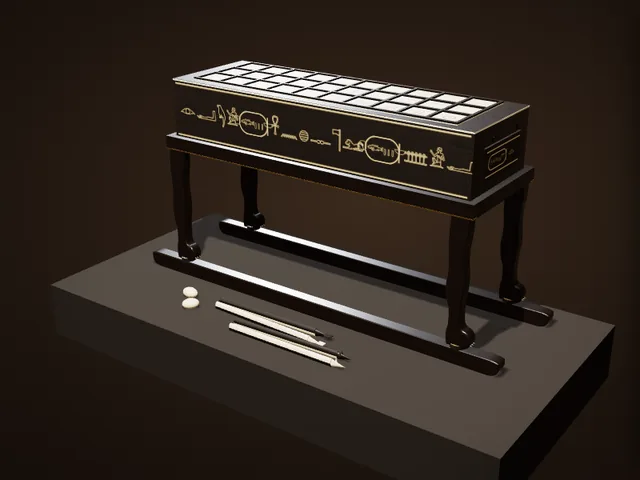
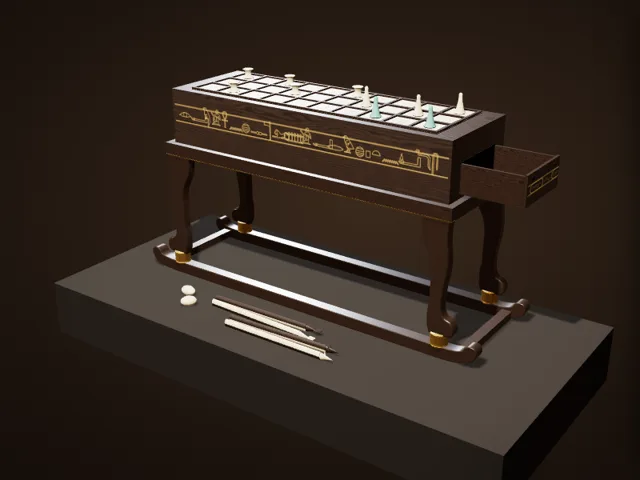
博物館：ツタンカーメンのセネト盤を展示写真に合わせて修正（木の色・銘文の帯・脚・金の円筒・そり・盤上の駒・開けた引き出し）
Claude-Session: https://claude.ai/code/session_01EiWRAZTxRF5M5nk5vdR2jJ

diff --git a/atlas/museum/ex/senet.js b/atlas/museum/ex/senet.js
@@ -7,7 +7,10 @@
    stand (with sledge) 55.0 × 17.5 × 20.2; 28 high overall (Carter). The pieces kept with it: two ivory knuckle-bones and two
    pairs of casting sticks, black ebony above and white ivory below, one pair ending in fingers, one in fox heads (about 17.5 long).
    Estimates: the wording and layout of the texts (Tutankhamun's throne name in cartouches, the rest in the manner of royal
-   texts), the signs on squares 15 and 26–30, the heights within the stand, where the gold is. */
+   texts), the signs on squares 15 and 26–30.
+   Checked 2026-11-21 against photographs of the set in the Egyptian Museum (Global Egyptian Museum 15033; egypt-museum.com): brown
+   ebony, one band of text in the upper middle of the sides, legs with a heavy thigh, ribbed gold drums under the paws, runners with
+   upturned ends and cross-bars; shown as displayed, the drawer open and reels and cones on the board. */
 (function () {
   'use strict';
   (window.AtlasEx = window.AtlasEx || {}).senet = {
@@ -17,7 +20,7 @@
       const SQ = 3.5, ST = .36, ROWS = 3, COLS = 10;
       const fieldW = COLS * SQ + (COLS + 1) * ST, fieldD = ROWS * SQ + (ROWS + 1) * ST;
       /* ---------- materials ---------- */
-      const ebonyT = K.tex(512, 512, (g, w, h) => K.grain(g, w, h, { a: '#1c130d', b: '#0b0705', seed: 3, sx: 1, sy: 30, warp: 1.6, pores: .012 }), { rep: [2, 1] });
+      const ebonyT = K.tex(512, 512, (g, w, h) => K.grain(g, w, h, { a: '#3a2a20', b: '#1d130e', seed: 3, sx: 1, sy: 30, warp: 1.6, pores: .012 }), { rep: [2, 1] });
       const ebonyR = K.tex(256, 256, (g, w, h) => K.grain(g, w, h, { a: '#8a8a8a', b: '#5c5c5c', seed: 5, sy: 30 }), { data: true, rep: [2, 1] });
       const ebony = K.mat({ map: ebonyT, roughnessMap: ebonyR, color: '#ffffff', roughness: .55, metalness: 0, clearcoat: .35, clearcoatRoughness: .45 });
       const ivoryT = K.tex(512, 512, (g, w, h) => { K.grain(g, w, h, { a: '#e8dab9', b: '#d3bf96', seed: 9, sx: 1, sy: 3, warp: 1.2 });
@@ -30,15 +33,17 @@
       // Nebkheperure in cartouches, the rest in the manner of a royal text (the real wording is not reproduced here)
       const HF = '"Noto Sans Egyptian Hieroglyphs"';
       const textTex = (len, ht, glyphs) => { const PX = 1536, s = PX / len; return K.tex(PX, Math.round(ht * s), (g, w, h) => {
-        g.drawImage(ebonyT.image, 0, 0, w, h); const yel = 'rgba(226,206,150,.92)';
-        g.strokeStyle = yel; g.lineWidth = s * .12; [s * .55, h - s * .55].forEach(y => { g.beginPath(); g.moveTo(s * .4, y); g.lineTo(w - s * .4, y); g.stroke(); });
-        g.fillStyle = yel; g.textBaseline = 'middle'; const FS = Math.min(h * .34, s * 2.3); g.font = `${Math.round(FS)}px ${HF}`;
-        const cart = (x) => { const cw = s * 4.6, ch = FS * 1.25, y0 = h / 2 - ch / 2; g.lineWidth = s * .09; g.beginPath(); g.roundRect(x, y0, cw, ch, ch / 2); g.stroke(); g.beginPath(); g.moveTo(x + cw, y0 + ch * .1); g.lineTo(x + cw, y0 + ch * .9); g.stroke();
-          g.textAlign = 'center'; g.font = `${Math.round(FS * .7)}px ${HF}`; g.fillText('\u{131F3}\u{1319F}\u{133E5}\u{1339F}', x + cw / 2, h * .5); g.font = `${Math.round(FS)}px ${HF}`; g.textAlign = 'left'; return cw; };
+        g.drawImage(ebonyT.image, 0, 0, w, h); const yel = 'rgba(212,178,104,.9)';
+        // one register of text between two incised lines, in the upper middle of the side (photographs in the Egyptian Museum)
+        const cy = h * (ht > 5 ? .42 : .5), bh = Math.min(h * .3, s * 2.4);
+        g.strokeStyle = yel; g.lineWidth = s * .08; [cy - bh / 2, cy + bh / 2].forEach(y => { g.beginPath(); g.moveTo(s * .35, y); g.lineTo(w - s * .35, y); g.stroke(); });
+        g.fillStyle = yel; g.textBaseline = 'middle'; const FS = bh * .9; g.font = `${Math.round(FS)}px ${HF}`;
+        const cart = (x) => { const cw = s * 3.6, ch = bh * .92, y0 = cy - ch / 2; g.lineWidth = s * .09; g.beginPath(); g.roundRect(x, y0, cw, ch, ch / 2); g.stroke(); g.beginPath(); g.moveTo(x + cw, y0 + ch * .1); g.lineTo(x + cw, y0 + ch * .9); g.stroke();
+          g.textAlign = 'center'; g.font = `${Math.round(FS * .7)}px ${HF}`; g.fillText('\u{131F3}\u{1319F}\u{133E5}\u{1339F}', x + cw / 2, cy); g.font = `${Math.round(FS)}px ${HF}`; g.textAlign = 'left'; return cw; };
         let x = s * 1.0; g.textAlign = 'left'; let i = 0;
-        while (x < w - s * 2) { const c = glyphs[i % glyphs.length]; if (c === 'C') { x += cart(x) + s * .6; } else { g.fillText(c, x, h * .5); x += g.measureText(c).width + s * .12; } i++; }
+        while (x < w - s * 2) { const c = glyphs[i % glyphs.length]; if (c === 'C') { x += cart(x) + s * .4; } else { g.fillText(c, x, cy); x += Math.min(g.measureText(c).width, FS * 1.05) + s * .05; } i++; }
       }); };
-      const LINE = ['\u{13079}', '\u{1309D}', '\u{13190}', '\u{13000}', 'C', '\u{132F9}', '\u{13216}', '\u{1340D}', '\u{13283}', '\u{132B9}', '\u{130ED}', 'C', '\u{13290}', '\u{13000}', '\u{1309D}', '\u{13079}'];
+      const LINE = ['\u{13079}', '\u{1309D}', '\u{13190}', '\u{13000}', '\u{132F9}', '\u{13216}', '\u{1340D}', '\u{13283}', '\u{132B9}', '\u{130ED}', '\u{13290}', '\u{13000}', '\u{1309D}', '\u{1308B}', '\u{13171}', '\u{1340D}', '\u{132AA}', '\u{133CF}', '\u{13216}', '\u{1309E}', '\u{13193}', '\u{132F4}', '\u{1308B}', '\u{13000}', '\u{132B9}', 'C'];
       const sideT = textTex(L, BH, LINE), endT = textTex(W, BH, LINE.slice(4));
       const sideM = K.mat({ map: sideT, color: '#ffffff', roughness: .5, clearcoat: .35, clearcoatRoughness: .45 }), endM = K.mat({ map: endT, color: '#ffffff', roughness: .5, clearcoat: .35, clearcoatRoughness: .45 });
       const box = new TT.Mesh(new TT.BoxGeometry(L, BH, W), [ebony, endM, ebony, ebony, sideM, sideM]); box.position.set(0, Y0 + BH / 2, 0); G.add(box);
@@ -61,7 +66,7 @@
         }
       });
       const topMat = K.mat({ map: topT, color: '#ffffff', roughness: .42, clearcoat: .2, clearcoatRoughness: .5 });
-      const slab = new TT.Mesh(new TT.BoxGeometry(fieldW, .12, fieldD), [ivory, ivory, topMat, ivory, ivory, ivory]); slab.position.set(0, Y0 + BH + .06, 0); G.add(slab);
+      const slab = new TT.Mesh(new TT.BoxGeometry(fieldW, .12, fieldD), [ebony, ebony, topMat, ebony, ebony, ebony]); slab.position.set(0, Y0 + BH + .06, 0); G.add(slab);
       // raised strips: rows and columns (and the outer frame), ebony
       const SH = .22, strips = [];
       for (let r = 0; r <= ROWS; r++) strips.push([fieldW, ST, 0, -fieldD / 2 + ST / 2 + r * (SQ + ST)]);
@@ -69,12 +74,22 @@
       strips.forEach(([w, d, x, z]) => { const m = new TT.Mesh(new TT.BoxGeometry(w, SH, d), ebony); m.position.set(x, Y0 + BH + .12 + SH / 2, z); G.add(m); });
       // a thin ivory edge where the field meets the ebony
       const band = (w, d, y, x = 0, z = 0) => { const m = new TT.Mesh(new TT.BoxGeometry(w, .2, d), ivory); m.position.set(x, y, z); G.add(m); };
-      band(L + .04, .08, Y0 + BH - .12, 0, W / 2); band(L + .04, .08, Y0 + BH - .12, 0, -W / 2); band(.08, W + .04, Y0 + BH - .12, -L / 2, 0); band(.08, W + .04, Y0 + BH - .12, L / 2, 0);
-      // the drawer at the +x end (9.5 wide, 4 high): its front framed with a line of text; the bolts and staples are gone
+      // the drawer at the +x end (22.2 long, 9.5 wide, 4 high), shown pulled out as in the museum's photographs
+      const DL = 22.2, DWd = 9.5, DHt = 4.0, DOUT = 8.5, dg = new TT.Group(); dg.position.set(L / 2 + DOUT - DL / 2, Y0 + .9 + DHt / 2, 0); G.add(dg);
       const dT = textTex(9.5, 4.0, ['C', '\u{13079}', '\u{1309D}']);
-      const df = new TT.Mesh(new TT.BoxGeometry(.3, 4.0, 9.5), [K.mat({ map: dT, color: '#ffffff', roughness: .5, clearcoat: .35 }), ebony, ebony, ebony, ebony, ebony]); df.position.set(L / 2 + .15, Y0 + BH / 2 - .4, 0); df.rotation.y = 0; G.add(df);
-      // the scars where the bolt's staples were wrenched away
-      [-3.2, 3.2].forEach(z => { const sc = new TT.Mesh(new TT.BoxGeometry(.05, .5, .9), K.mat({ color: '#2a1a10', roughness: .9 })); sc.position.set(L / 2 + .31, Y0 + BH / 2 + 2.3, z); G.add(sc); });
+      const dpart = (w, h, d, x, y, z, m) => { const o = new TT.Mesh(new TT.BoxGeometry(w, h, d), m || ebony); o.position.set(x, y, z); dg.add(o); };
+      dpart(.35, DHt, DWd, DL / 2 - .175, 0, 0, [K.mat({ map: dT, color: '#ffffff', roughness: .5, clearcoat: .35 }), ebony, ebony, ebony, ebony, ebony]);   // front
+      dpart(DL - .35, DHt - .2, .3, -.175, -.1, DWd / 2 - .15); dpart(DL - .35, DHt - .2, .3, -.175, -.1, -DWd / 2 + .15);   // sides
+      dpart(.3, DHt - .2, DWd - .6, -DL / 2 + .15, -.1, 0); dpart(DL - .35, .25, DWd - .6, -.175, -DHt / 2 + .125, 0, K.mat({ color: '#4a3324', roughness: .85 }));   // back, rough floor
+      [-3.2, 3.2].forEach(z => { const sc = new TT.Mesh(new TT.BoxGeometry(.05, .5, .9), K.mat({ color: '#2a1a10', roughness: .9 })); sc.position.set(DL / 2 + .01, 1.2, z); dg.add(sc); });   // where the bolt's staples were wrenched away
+      const hole = new TT.Mesh(new TT.BoxGeometry(.05, DHt, DWd), K.mat({ color: '#080504', roughness: 1 })); hole.position.set(L / 2 + .03, Y0 + .9 + DHt / 2, 0); G.add(hole);   // the empty opening in the box's end
+      /* ---------- pieces on the board, as the set is shown in the museum: reels and cones (ivory; two cones blue faience) ---------- */
+      const faience = K.mat({ color: '#6fa9a0', roughness: .45, clearcoat: .3 });
+      const reelG = new TT.LatheGeometry([[0, 0], [.95, 0], [1.0, .12], [.62, .35], [.5, .9], [.62, 1.35], [.98, 1.55], [.9, 1.66], [0, 1.66]].map(([x, y]) => new TT.Vector2(x, y)), 24);
+      const coneG = new TT.LatheGeometry([[0, 0], [.95, 0], [1.0, .15], [.7, .5], [.42, 1.6], [.3, 2.4], [.34, 2.7], [.2, 2.9], [0, 2.95]].map(([x, y]) => new TT.Vector2(x, y)), 24);
+      const sqc = (c, r) => [-fieldW / 2 + ST + c * (SQ + ST) + SQ / 2, Y0 + BH + .12, -fieldD / 2 + ST + r * (SQ + ST) + SQ / 2];
+      [[0, 0], [2, 0], [3, 1], [5, 0], [1, 2]].forEach(([c, r]) => { const m = new TT.Mesh(reelG, ivory); m.position.set(...sqc(c, r)); m.scale.setScalar(.82); G.add(m); });
+      [[6, 1], [7, 2], [8, 1], [9, 2], [9, 0]].forEach(([c, r], i) => { const m = new TT.Mesh(coneG, i === 1 || i === 3 ? faience : ivory); m.position.set(...sqc(c, r)); m.scale.set(.75, .9, .75); G.add(m); });
       /* ---------- the stand: rails, four animal legs on drums, two sledge runners ---------- */
       const RL = 46.4, RW = 16.4, RH = 1.8;   // the top frame (rebated for the box)
       [[RL, RH, .9, 0, RW / 2 - .45], [RL, RH, .9, 0, -RW / 2 + .45], [.9, RH, RW, RL / 2 - .45, 0], [.9, RH, RW, -RL / 2 + .45, 0]].forEach(([w, h, d, x, z]) => { const m = new TT.Mesh(new TT.BoxGeometry(w, h, d), ebony); m.position.set(x, 20.2 - h / 2, z); G.add(m); });
@@ -84,28 +99,29 @@
       gilt(RL + .02, .92, 0, RW / 2 - .45); gilt(RL + .02, .92, 0, -RW / 2 + .45);
       // a feline leg seen from the side (paw forward to +x), extruded and rounded
       const sh = new TT.Shape();
-      sh.moveTo(-.95, 10.3); sh.quadraticCurveTo(-1.25, 8.6, -1.0, 7.2); sh.quadraticCurveTo(-.82, 6.1, -1.12, 4.9); sh.quadraticCurveTo(-1.18, 3.9, -.62, 3.0);
-      sh.quadraticCurveTo(-.48, 2.0, -.62, 1.35); sh.quadraticCurveTo(-.92, .8, -.7, .05); sh.lineTo(1.35, .05);
-      sh.quadraticCurveTo(2.05, .1, 2.0, .62); sh.quadraticCurveTo(1.9, 1.05, 1.25, 1.12); sh.quadraticCurveTo(.62, 1.25, .52, 1.9);
-      sh.quadraticCurveTo(.42, 3.0, .7, 4.2); sh.quadraticCurveTo(.92, 5.3, .66, 6.4); sh.quadraticCurveTo(.5, 7.4, .82, 8.5); sh.quadraticCurveTo(1.0, 9.4, .95, 10.3); sh.lineTo(-.95, 10.3);
+      // (after the photographs: a heavy thigh, a slender shank curving back, the knee forward, a broad paw)
+      sh.moveTo(-2.3, 10.3); sh.quadraticCurveTo(-2.5, 8.9, -1.5, 7.7); sh.quadraticCurveTo(-.6, 6.6, -.7, 5.2); sh.quadraticCurveTo(-.75, 3.9, -.75, 2.7); sh.quadraticCurveTo(-1.15, 1.6, -.9, .45); sh.lineTo(-.72, .02);
+      sh.lineTo(1.85, .02); sh.quadraticCurveTo(2.5, .05, 2.4, .62); sh.quadraticCurveTo(2.28, 1.12, 1.55, 1.2); sh.quadraticCurveTo(.62, 1.38, .55, 2.4);
+      sh.quadraticCurveTo(.5, 3.6, .95, 5.0); sh.quadraticCurveTo(1.35, 6.6, 1.0, 8.0); sh.quadraticCurveTo(.8, 9.3, 1.15, 10.3); sh.lineTo(-2.3, 10.3);
       const legG = new TT.ExtrudeGeometry(sh, { depth: 1.15, bevelEnabled: true, bevelThickness: .24, bevelSize: .22, bevelSegments: 4, curveSegments: 10 });
       legG.translate(0, 0, -.575);
       const clawG = new TT.ConeGeometry(.12, .42, 10); clawG.rotateZ(-Math.PI / 2);
-      const drumG = new TT.CylinderGeometry(.95, 1.05, .6, 28);
-      const LX = RL / 2 - 1.6, LZ = RW / 2 - .9, LS = (20.2 - RH - 2.4) / 10.3;   // (the legs stretched to the stand's height)
+      const drumG = new TT.LatheGeometry([[0, -.9], [1.15, -.9], [1.2, -.75], [1.05, -.6], [1.18, -.45], [1.05, -.3], [1.18, -.15], [1.05, 0], [1.18, .15], [1.05, .3], [1.18, .45], [1.05, .6], [1.2, .75], [1.15, .9], [0, .9]].map(([x, y]) => new TT.Vector2(x, y)), 28);
+      const LX = RL / 2 - 1.6, LZ = RW / 2 - .9, LS = (20.2 - RH - 3.3) / 10.3;   // (the legs stretched to the stand's height)
       for (const sx of [1, -1]) for (const sz of [1, -1]) {
         const x = sx * LX, z = sz * LZ;
-        const leg = new TT.Mesh(legG, ebony); leg.position.set(x, 2.4, z); leg.scale.y = LS; G.add(leg);
-        for (let k = -1; k <= 1; k++) { const c = new TT.Mesh(clawG, ivory); c.position.set(x + 2.18, 2.4 + .3, z + k * .42); G.add(c); }
-        const dr = new TT.Mesh(drumG, ebony); dr.position.set(x + .4, 2.1, z); G.add(dr);
-        const cap = new TT.Mesh(new TT.CylinderGeometry(1.0, 1.0, .1, 28), gold); cap.position.set(x + .4, 2.42, z); G.add(cap);
+        const leg = new TT.Mesh(legG, ebony); leg.position.set(x, 3.3, z); leg.scale.y = LS; leg.scale.x = sx; leg.scale.z = .9; G.add(leg);   // the paws face outwards, to the ends
+        for (let k = -1; k <= 1; k++) { const c = new TT.Mesh(clawG, ivory); c.position.set(x + sx * 2.18, 3.3 + .3, z + k * .36); c.scale.x = sx; G.add(c); }
+        const dr = new TT.Mesh(drumG, gold); dr.position.set(x + sx * .4, 1.45 + .9, z); G.add(dr);   // a gold drum, ribbed, under each paw
       }
-      // runners: long bars with rounded, slightly upturned ends
-      const rs = new TT.Shape(); const RLn = 55, RH2 = 1.8;
-      rs.moveTo(-RLn / 2 + 1.2, 0); rs.lineTo(RLn / 2 - 1.2, 0); rs.quadraticCurveTo(RLn / 2 + .2, .1, RLn / 2, RH2 * .9); rs.quadraticCurveTo(RLn / 2 - .3, RH2, RLn / 2 - 1.4, RH2);
-      rs.lineTo(-RLn / 2 + 1.4, RH2); rs.quadraticCurveTo(-RLn / 2 + .3, RH2, -RLn / 2, RH2 * .9); rs.quadraticCurveTo(-RLn / 2 - .2, .1, -RLn / 2 + 1.2, 0);
-      const runG = new TT.ExtrudeGeometry(rs, { depth: 1.5, bevelEnabled: true, bevelThickness: .15, bevelSize: .15, bevelSegments: 3, curveSegments: 10 }); runG.translate(0, 0, -.75);
+      // runners: long bars whose ends sweep up in a curl (the photographs), joined by a cross-bar near each end
+      const RLn = 55, RH2 = 1.45, rs = new TT.Shape(), E = RLn / 2;
+      rs.moveTo(-E + 5, 0); rs.lineTo(E - 5, 0); rs.bezierCurveTo(E - 1.6, 0, E, .8, E, 2.0); rs.quadraticCurveTo(E, 2.7, E - .7, 2.7); rs.quadraticCurveTo(E - 1.4, 2.7, E - 1.6, 2.1);
+      rs.bezierCurveTo(E - 1.9, 1.6, E - 3, RH2, E - 5, RH2); rs.lineTo(-E + 5, RH2); rs.bezierCurveTo(-E + 3, RH2, -E + 1.9, 1.6, -E + 1.6, 2.1);
+      rs.quadraticCurveTo(-E + 1.4, 2.7, -E + .7, 2.7); rs.quadraticCurveTo(-E, 2.7, -E, 2.0); rs.bezierCurveTo(-E, .8, -E + 1.6, 0, -E + 5, 0);
+      const runG = new TT.ExtrudeGeometry(rs, { depth: 1.5, bevelEnabled: true, bevelThickness: .12, bevelSize: .12, bevelSegments: 3, curveSegments: 16 }); runG.translate(0, 0, -.75);
       [LZ, -LZ].forEach(z => { const m = new TT.Mesh(runG, ebony); m.position.set(0, 0, z); G.add(m); });
+      [LX + 3.4, -LX - 3.4].forEach(x => { const m = new TT.Mesh(new TT.BoxGeometry(1.4, 1.1, 2 * LZ), ebony); m.position.set(x, .75, 0); G.add(m); });
       /* ---------- the pieces kept with it: two knuckle-bones and two pairs of casting sticks (black ebony over white ivory) ---------- */
       const stick = (x, z, ry, up, fox) => { const g = new TT.Group(); g.position.set(x, .35, z); g.rotation.y = ry; G.add(g);
         const half = (m, top) => { const h = new TT.Mesh(new TT.CylinderGeometry(.55, .55, 15.5, 16, 1, false, top ? 0 : Math.PI, Math.PI), m); h.rotation.z = Math.PI / 2; h.scale.set(1, 1, .6); g.add(h); };

diff --git a/atlas/museum/gallery-ja.js b/atlas/museum/gallery-ja.js
@@ -24,10 +24,10 @@
         ['ゴール前のマス', '最後のほうのマスには特別な印が描かれるのが一般的でした。'],
         ['側面の銘文', '黒檀に刻み、淡い黄色の顔料を詰めた象形文字。ツタンカーメンの即位名「ネブケペルウラー」はカルトゥーシュ（楕円の枠）で囲まれます。'],
         ['駒の引き出し', '長さ22.2cmの黒檀の引き出し。閉めるための閂（かんぬき）と受け金具は、盗掘者がもぎ取ったのか、失われています。'],
-        ['ネコ科の脚', '台の4本の脚はネコ科の動物の脚の形で、爪は象牙。台の装飾にはほかに金が使われています。'],
+        ['ネコ科の脚', '台の4本の脚はネコ科の動物の脚の形で、爪は象牙。前足は金の筋入りの円筒の上に載っています。'],
         ['そりの滑り木', '台は長さ55cmのそりの滑り木の上に載っています。'],
         ['距骨と投げ棒', '象牙の距骨2つと、上半分が黒檀・下半分が象牙の投げ棒2組（端は人の指の形と、キツネの頭の形）。投げて出た白黒の組み合わせで駒を進めました。']],
-      model: '各部の寸法、素材、マスと帯、引き出し、銘文の技法、脚と象牙の爪、そり、駒と投げ棒はハワード・カーターの記録カードに従いました。銘文の文面と配置（即位名のカルトゥーシュ以外）、マスの印、台の中の高さの配分、金の使われた場所、投げ棒の先の彫りは推定です。',
+      model: '各部の寸法、素材、マスと帯、引き出し、銘文の技法、脚と象牙の爪、そり、距骨と投げ棒はハワード・カーターの記録カードに従いました。形（脚の曲がり方、金の円筒、そりの先の反り、両端の横木）、木の色、銘文の帯の位置と文字の詰まり具合はエジプト博物館の展示写真と見比べています。盤上の駒（糸巻き形と円錐形）と引き出しを開けた姿は展示写真にならいました。銘文の文面（即位名のカルトゥーシュ以外）、マスの印、投げ棒の先の彫りは推定です。',
       src: [['グリフィス研究所 カーター記録カード 345（箱・引き出し・台）', 'https://www.griffith.ox.ac.uk/gri/carter/345-c345-01.html'], ['同 345-02（銘文・台）', 'https://www.griffith.ox.ac.uk/gri/carter/345-c345-02.html'], ['同 345-03（距骨・投げ棒）', 'https://www.griffith.ox.ac.uk/gri/carter/345-c345-03.html'], ['Global Egyptian Museum「Senet Game of Tutankhamun」(JE 62058)', 'https://www.globalegyptianmuseum.org/detail.aspx?id=15033']] },
     shosoin: { name: '木画紫檀棊局', alt: '正倉院の碁盤 — Go Board of Shitan with Marquetry', date: '7〜8世紀', where: '日本（奈良・正倉院）', found: '聖武天皇ゆかりの品として正倉院に伝来（756年の献納品のひとつ）',
       museum: '正倉院（宮内庁）', no: '北倉36', mat: '紫檀（芯は松）、象牙、木画（さまざまな木や角・象牙の寄せ木細工）', size: '縦49.0cm・横48.8cm・高さ12.7cm',

diff --git a/atlas/museum/gallery-en.js b/atlas/museum/gallery-en.js
@@ -23,10 +23,10 @@
         ['The last squares', 'The last squares of a senet board were usually marked with special signs.'],
         ['The texts on the sides', 'Hieroglyphs cut into the ebony and filled with light-yellow paste. Tutankhamun\'s throne name, Nebkheperure, stands in a cartouche.'],
         ['The drawer', 'An ebony drawer 22.2 cm long. Its bolts and staples are gone — perhaps wrenched away by robbers.'],
-        ['The feline legs', 'Four legs in feline form with ivory claws; the stand\'s other decoration is gold.'],
+        ['The feline legs', 'Four legs in feline form with ivory claws, each paw standing on a ribbed gold drum.'],
         ['The sledge', 'The stand rests on sledge runners 55 cm long.'],
         ['Knuckle-bones and casting sticks', 'Two ivory knuckle-bones and two pairs of sticks, black ebony above and white ivory below, ending in human fingers or fox heads. The black and white sides that landed up told how far to move.']],
-      model: 'The measurements, materials, squares and strips, drawer, the technique of the texts, the legs and ivory claws, the sledge, and the pieces follow Howard Carter\'s object cards. The wording and layout of the texts (apart from the throne name in its cartouche), the signs on the squares, how the stand\'s height divides, where the gold is, and the carving of the stick ends are estimates.',
+      model: 'The measurements, materials, squares and strips, drawer, the technique of the texts, the legs and ivory claws, the sledge, the knuckle-bones and sticks follow Howard Carter\'s object cards. The shapes (the curve of the legs, the gold drums, the upturned runner ends, the cross-bars), the colour of the wood, and where the band of text runs and how closely it is written were checked against photographs of the set in the Egyptian Museum; the pieces on the board (reels and cones) and the open drawer follow how it is displayed. The wording of the texts (apart from the throne name), the signs on the squares and the carving of the stick ends are estimates.',
       src: [['Griffith Institute, Carter card 345 (box, drawer, stand)', 'https://www.griffith.ox.ac.uk/gri/carter/345-c345-01.html'], ['Carter card 345-02 (texts, stand)', 'https://www.griffith.ox.ac.uk/gri/carter/345-c345-02.html'], ['Carter card 345-03 (knuckle-bones, casting sticks)', 'https://www.griffith.ox.ac.uk/gri/carter/345-c345-03.html'], ['Global Egyptian Museum, "Senet Game of Tutankhamun" (JE 62058)', 'https://www.globalegyptianmuseum.org/detail.aspx?id=15033']] },
     shosoin: { name: 'Go Board of Shitan with Marquetry', alt: 'Mokuga shitan kikyoku — the Shōsōin go board', date: '7th–8th century', where: 'Japan (Nara, Shōsōin)', found: 'Handed down in the Shōsōin among Emperor Shōmu\'s belongings (dedicated in 756)',
       museum: 'Shōsōin Repository (Imperial Household Agency)', no: 'North Section 36', mat: 'Shitan (red sandalwood) over a pine core, ivory, marquetry of woods, horn and ivory', size: '49.0 × 48.8 cm, 12.7 cm high',

diff --git a/atlas/museum/gallery.js b/atlas/museum/gallery.js
@@ -10,13 +10,13 @@
    (a turn, a zoom, the slow turntable) and never while the window is in the background. */
 (function () {
   'use strict';
-  const V = 14;
+  const V = 15;
   /* ---------- the pieces: id, the game it belongs to, its scale (cm per model unit), the camera's start, the details ----------
      lock: { game, ach } → open after that many achievements of the game. src: the files the piece needs (besides ex/<id>.js) */
   const EX = [
     { id: 'ur', game: 'ur', src: () => window.AtlasLazy ? AtlasLazy.need('ur') : 0, cm: 30.1 / 8.52, view: [-.45, .7, .92],
       spots: [[-3.5, .44, -1], [-.5, .44, 0], [1, .44, 0], [3.5, .44, -1], [-2.5, .22, 1.62]] },
-    { id: 'senet', game: 'senet', cm: 1, view: [.62, .4, .9], spots: [[-11, 28.4, -3.5], [17, 28.4, 4], [-6, 23.6, 7.2], [22.5, 23.5, 0], [23.8, 2.7, 7.4], [-10, 1.9, 7.6], [-2, .9, 13.8]] },
+    { id: 'senet', game: 'senet', cm: 1, view: [.62, .4, .9], spots: [[-11, 28.4, -3.5], [17, 28.4, 4], [-6, 23.6, 7.2], [28.5, 24.2, 0], [23.6, 3.6, 7.4], [-10, 1.5, 7.6], [-2, .9, 13.8]] },
     { id: 'shosoin', game: 'go', cm: 1, view: [.35, .58, .82], spots: [[0, 12.8, 0], [-15.5, 12.8, -15.5], [0, 10.4, 24.6], [27.4, 10.2, 15.8], [32.2, 10.0, 15.8], [-14, .8, 23.2]] },
     { id: 'sugoroku', game: 'backgammon', cm: 1, view: [.45, .55, .92],
       spots: [[0, 12.45, 11.5], [-12, 12.45, 11.5], [-23.35, 12.45, 0], [8, 14.6, 15.55], [-8, 5, 15.5], [5.7, 13.2, -1.3]] },

diff --git a/atlas/museum.js b/atlas/museum.js
@@ -32,7 +32,7 @@
   const ROOMS = [
     { id: 'map', ready: () => !!window.AtlasMap, render: (el, c) => AtlasMap.render(el, c) },
     { id: 'tree', src: ['museum/tree.js?v=2'], ready: () => !!window.AtlasTree, render: (el, c) => AtlasTree.render(el, c) },
-    { id: 'gallery', src: ['museum/gallery.js?v=14'], ready: () => !!window.AtlasGallery, render: (el, c) => AtlasGallery.render(el, c) },
+    { id: 'gallery', src: ['museum/gallery.js?v=15'], ready: () => !!window.AtlasGallery, render: (el, c) => AtlasGallery.render(el, c) },
   ];
   const KEY = 'atlas-museum-room';
   const esc = s => String(s == null ? '' : s).replace(/[&<>"]/g, c => ({ '&': '&amp;', '<': '&lt;', '>': '&gt;', '"': '&quot;' }[c]));

diff --git a/atlas/index.html b/atlas/index.html
@@ -2559,7 +2559,7 @@ window.AtlasRgdTimer = function (btn, ms, alive) {
 <link rel="stylesheet" href="worldmap.css?v=19">
 <link rel="stylesheet" href="museum.css?v=4">
 <script src="worldmap.js?v=40"></script>
-<script src="museum.js?v=15"></script>
+<script src="museum.js?v=16"></script>
 <script src="npc/npc.js?v=46"></script>
 <script src="avtalk.js?v=4"></script>
 <script>/* Page states as classes on <html> (2026-11-21) — html.cov-on: the 3D view / Historia / a sheet / a level sheet is open;

diff --git a/claude/museum-spec.md b/claude/museum-spec.md
@@ -47,6 +47,7 @@
     structure（形と配置）・edges（模様の線の位置）・layout（明暗や色の配置）・palette（素材の色）と total（0〜100）。点数が上がる変更だけを採用し、並べた画像を目でも確かめる。
     記録：オスマン帝国の盤（バックギャモン面、V&A の写真 2012FP3720）total 18.9 → 35.0（2026-11-21、帯とメダイヨンを写真の透かし彫りに合わせた）。
     記録：木画紫檀棊局（正倉院の写真 CO0000000418〜436）上面 total 59.2 → 71.4、側面B（429）18.1 → 31.7（2026-11-21、盤面の余白と花眼、木画の筋、側面の菱文帯と狩猟図、床脚の刳り形・畳摺・引き出しの位置を写真に合わせた）。
+    記録：セネト（エジプト博物館の正面写真、Global Egyptian Museum 15033）total 27.4 → 38.1（2026-11-21、木の色、銘文の帯、脚の形、金の円筒、そりの反り、盤上の駒、開けた引き出し）。
   - スマホで遠目に見たときのちらつき・白飛びがないこと（カメラの near/far を狭く、テクスチャはミップマップと異方性フィルタ、トーンマップの露出 .85、重なる面は polygonOffset）。
 - 収蔵品（2026-11-21）：
   - ウルの王族のゲーム盤（大英博物館 120834）— ポータルのウルの3D盤（`atlas/models/ur.js`）をそのまま使う（実物そっくりの出来）。
